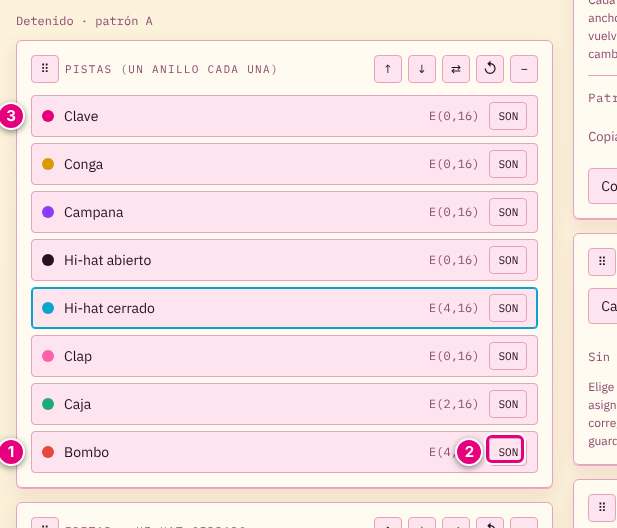
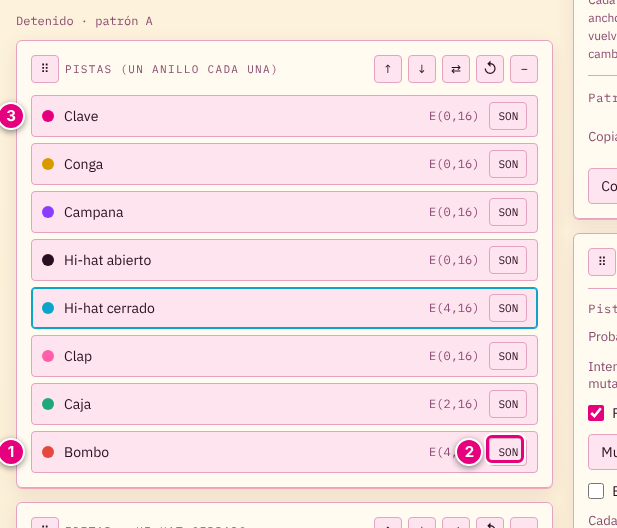
Vanilla manual: cubre VA 0.3.0 (variación, bajo y armonía, LFO, canal por pista, perfil FM-1)
Claude-Session: https://claude.ai/code/session_01QbXvejNrjV47qK3Z6mWcs5

Changed region(s): [[0.9238, 0.5758, 1.0, 1.0]]

diff --git a/vanilla/manual/index.html b/vanilla/manual/index.html
@@ -62,8 +62,11 @@ a.volver { color: var(--accent); }
 <li><a href="#e11">Deshacer, rehacer y reiniciar</a></li>
 <li><a href="#e12">Modo Vanilla y modo Darth</a></li>
 <li><a href="#e13">Guardar y exportar</a></li>
-<li><a href="#e14">MIDI (opcional)</a></li>
-<li><a href="#e15">Resumen de atajos</a></li>
+<li><a href="#e14">Variación automática</a></li>
+<li><a href="#e15">Bajo y armonía automáticos</a></li>
+<li><a href="#e16">Modulación con LFO</a></li>
+<li><a href="#e17">MIDI (opcional)</a></li>
+<li><a href="#e18">Resumen de atajos</a></li>
 </ol></nav>
 
 <section class="etapa" id="e1"><span class="num">Etapa 1</span><h2>Conocer la pantalla</h2>
@@ -125,9 +128,10 @@ a.volver { color: var(--accent); }
 <li><b>Pasos.</b> En cuántos momentos se divide el círculo (entre 2 y 32).</li>
 <li><b>Pulsos.</b> Cuántos golpes hay. La aplicación los reparte parejo sobre los pasos.</li>
 <li><b>Rotación.</b> Gira el ritmo sin cambiarlo.</li>
+<li><b>Canal MIDI de la pista.</b> Por qué canal MIDI sale esta pista. “Heredar” usa el canal general del módulo MIDI (etapa 17).</li>
 <li><b>Aleatorio.</b> Reparte golpes al azar.</li>
 <li><b>Limpiar.</b> Quita todos los golpes de la pista.</li>
-<li><b>Probar nota MIDI.</b> Solo se usa con un equipo MIDI conectado (etapa 14).</li>
+<li><b>Probar nota MIDI.</b> Solo se usa con un equipo MIDI conectado (etapa 17).</li>
 </ol>
 <div class="prueba"><b>Prueba esto:</b> selecciona la pista Clave, pon Pasos en 16 y mueve Pulsos de 3 a 7. Luego mueve Rotación.</div>
 </section>
@@ -256,18 +260,65 @@ a.volver { color: var(--accent); }
 </ol>
 </section>
 
-<section class="etapa" id="e14"><span class="num">Etapa 14</span><h2>MIDI (opcional)</h2>
+<section class="etapa" id="e14"><span class="num">Etapa 14</span><h2>Variación automática</h2>
+<p>El módulo Generativo cambia el ritmo de forma automática. Lo que está dibujado en el círculo no se pierde, salvo que se pida con “Adoptar la variación actual”.</p>
+<figure><img src="img/19-generativo.png" alt="Módulo Generativo con números"><figcaption>Módulo Generativo: variación de la pista seleccionada.</figcaption></figure>
+<ol class="leg">
+<li><b>Probabilidad.</b> Qué tan seguido suena cada golpe de la pista seleccionada. 100 es siempre; 50 es la mitad de las veces, al azar.</li>
+<li><b>Intensidad de mutación.</b> Cuántos golpes se mueven en cada mutación (de 1 a 8).</li>
+<li><b>Proteger el primer paso.</b> Si está marcado, el golpe del primer paso no se mueve.</li>
+<li><b>Mutar pista.</b> Mueve golpes de la pista seleccionada a pasos vecinos. La cantidad de golpes no cambia. Se puede deshacer.</li>
+<li><b>Mutar todas.</b> Lo mismo en todas las pistas.</li>
+<li><b>Evolucionar mientras suena.</b> Mientras toca, el ritmo varía solo cada cierto número de vueltas. El ritmo dibujado queda intacto: al detener y volver a tocar, parte otra vez de él.</li>
+<li><b>Cada (vueltas).</b> Cada cuántas vueltas varía el ritmo.</li>
+<li><b>Aplicar a.</b> Todas las pistas o solo la seleccionada.</li>
+<li><b>Adoptar la variación actual.</b> Convierte la variación que se ve en el círculo en el ritmo dibujado.</li>
+<li><b>Polimetría: longitudes distintas.</b> Da a cada pista un número de pasos distinto, y los ritmos se van desfasando entre sí. Se puede deshacer.</li>
+</ol>
+<p>La exportación a MIDI y a audio usa el ritmo dibujado, sin probabilidad ni evolución.</p>
+<div class="prueba"><b>Prueba esto:</b> dibuja un ritmo, marca “Evolucionar mientras suena”, pon “Cada (vueltas)” en 1 y pulsa Tocar. Mira cómo se mueven los puntos en el círculo.</div>
+</section>
+
+<section class="etapa" id="e15"><span class="num">Etapa 15</span><h2>Bajo y armonía automáticos</h2>
+<p>La parte baja del módulo Generativo trabaja sobre el bajo. Para oírlo, el bajo tiene que estar activado (etapa 9).</p>
+<figure><img src="img/20-generativo-bajo.png" alt="Parte Bajo y armonía del módulo Generativo con números"><figcaption>Bajo y armonía. Debajo de los botones aparece la progresión generada.</figcaption></figure>
+<ol class="leg">
+<li><b>Caminata aleatoria del bajo.</b> Genera las notas del bajo moviéndose por la escala con pasos cortos, empezando en la tónica. Si el bajo no tiene golpes, crea primero un ritmo base.</li>
+<li><b>Acordes.</b> Cuántos acordes tendrá la progresión: 4, 6 u 8.</li>
+<li><b>Progresión por Tonnetz.</b> Arma una progresión en la que cada acorde comparte dos notas con el anterior, y termina volviendo al primero. Queda elegida en el menú Progresión del módulo Bajo, en el grupo “Tonnetz”.</li>
+</ol>
+<div class="prueba"><b>Prueba esto:</b> activa el bajo, pulsa “Caminata aleatoria del bajo”, luego “Progresión por Tonnetz” y pulsa Tocar. Repite cualquiera de los dos botones para obtener otra versión.</div>
+</section>
+
+<section class="etapa" id="e16"><span class="num">Etapa 16</span><h2>Modulación con LFO</h2>
+<p>Un LFO es un valor que sube y baja solo, con un ritmo fijo. Aquí cada LFO envía un controlador (CC) por MIDI al equipo conectado, sincronizado con la vuelta. No cambia el sonido interno de la aplicación, y necesita el MIDI conectado (etapa 17). Hay tres LFO; el manual muestra el primero.</p>
+<figure><img src="img/21-modulacion.png" alt="Módulo Modulación con números"><figcaption>Módulo Modulación, LFO 1.</figcaption></figure>
+<ol class="leg">
+<li><b>LFO 1.</b> Activa o apaga este LFO.</li>
+<li><b>Canal.</b> Por qué canal MIDI se envía.</li>
+<li><b>Controlador (CC).</b> El número del controlador que se envía (de 0 a 127). Qué parámetro mueve depende del equipo: se confirma en su manual.</li>
+<li><b>Forma.</b> Seno, Triángulo, Sierra, Sierra inversa, Cuadrada o Aleatoria escalonada.</li>
+<li><b>Periodo.</b> Cuánto tarda en recorrer la forma: de ¼ de vuelta a 16 vueltas.</li>
+<li><b>Mínimo.</b> El valor más bajo que envía.</li>
+<li><b>Máximo.</b> El valor más alto que envía.</li>
+</ol>
+<div class="prueba"><b>Prueba esto:</b> con el MIDI conectado, activa el LFO 1, elige el número de controlador que acepta tu equipo y pulsa Tocar. Cambia la Forma y el Periodo mientras suena.</div>
+</section>
+
+<section class="etapa" id="e17"><span class="num">Etapa 17</span><h2>MIDI (opcional)</h2>
 <p>Solo sirve para conectar la aplicación a un programa o equipo MIDI. Para tocar sola no hace falta.</p>
 <figure><img src="img/18-midi.png" alt="Módulo MIDI con números"><figcaption>Módulo MIDI.</figcaption></figure>
 <ol class="leg">
 <li><b>Conectar MIDI.</b> Pide permiso al navegador y busca los puertos.</li>
 <li><b>Salida.</b> A qué puerto se envían las notas.</li>
-<li><b>Canal.</b> El canal MIDI.</li>
+<li><b>Canal.</b> El canal MIDI general. Lo usan las pistas que tienen “Heredar” en su canal.</li>
 <li><b>Enviar reloj, Start y Stop.</b> Para que el otro equipo siga el mismo tempo.</li>
+<li><b>Perfil FM-1.</b> Busca la salida llamada FM-1, asigna los canales 1 a 8 a las ocho pistas, el 9 al bajo y el 10 al arpegio, y activa el reloj. Son canales propuestos: en el FM-1 hay que configurar esos mismos canales de entrada. Si no encuentra la salida, la elige uno mismo en Salida.</li>
 </ol>
+<p>Cada pista puede tener su propio canal: está en el módulo Editar, “Canal MIDI de la pista” (etapa 5).</p>
 </section>
 
-<section class="etapa" id="e15"><span class="num">Etapa 15</span><h2>Resumen de atajos</h2>
+<section class="etapa" id="e18"><span class="num">Etapa 18</span><h2>Resumen de atajos</h2>
 <table>
 <tr><th>Acción</th><th>Cómo</th></tr>
 <tr><td>Activar o apagar un punto</td><td>Tocar el punto en el círculo</td></tr>
@@ -276,6 +327,8 @@ a.volver { color: var(--accent); }
 <tr><td>Rehacer</td><td>Botón “Rehacer” o <kbd>Ctrl</kbd> + <kbd>Y</kbd></td></tr>
 <tr><td>Reiniciar un módulo</td><td>Botón ↺ en su cabecera</td></tr>
 <tr><td>Cambiar colores</td><td>Botón “Modo Darth” / “Modo Vanilla”</td></tr>
+<tr><td>Cambiar un ritmo un poco</td><td>Generativo → “Mutar pista”</td></tr>
+<tr><td>Que el ritmo varíe solo mientras suena</td><td>Generativo → “Evolucionar mientras suena”</td></tr>
 <tr><td>Empezar todo de cero</td><td>Presets → “Empezar sesión de cero”</td></tr>
 </table>
 </section>
